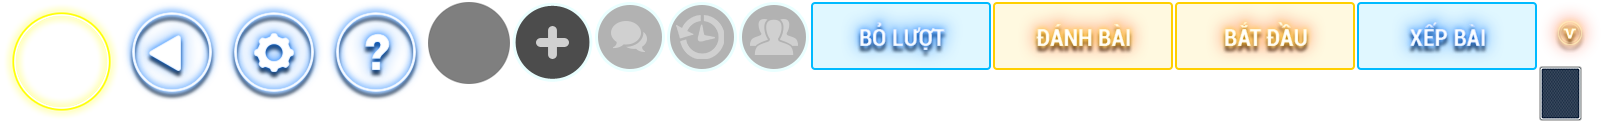
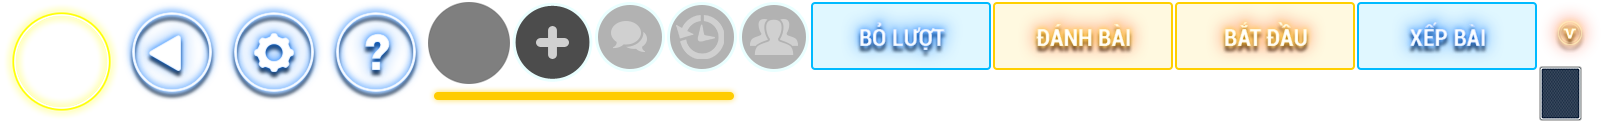
yes

Changed region(s): [[0.2495, 0.7073, 0.4679, 0.8537]]

diff --git a/res/Game/js/Home/HomeScene.js b/res/Game/js/Home/HomeScene.js
@@ -267,29 +267,20 @@ var HomeScene = IScene.extend({
     },
 
     callButtonHandler : function () {
-        // var dialog = new Dialog();
-        // dialog.initWithSize(cc.size(700,300));
-        // dialog.show();
+       // SystemPlugin.getInstance().showCallPhone(GameConfig.hotline);
 
-       // LoadingDialog.getInstance().show();
-        //MessageNode.getInstance().show("Test message node");
-
-        // var dialog = new RewardDialog();
-        // dialog.setItem("Apple iPhone 10S 128GB", 1000000);
-        // dialog.showWithAnimationScale();
-
-        // var dialog = new ResultDialog(2);
-        // dialog.show();
-
-        // var dialog = new UserDialog();
-        // dialog.setUsername("QQQQQQQQQQQQQQQQQQQQQQQQQQQQQQQQ");
-        // dialog.setGold(1234567);
-        // dialog.showWithAnimationScale();
-
-        // var dialog = new UserListDialog();
-        // dialog.show();
-
-        SystemPlugin.getInstance().showCallPhone(GameConfig.hotline);
+        // var request = cc.loader.getXMLHttpRequest();
+        // request.open("GET", "google.com");
+        // request.setRequestHeader( "Content-Type","text/plain;charset=UTF-8" );
+        // request.d
+        // request.onreadystatechange = function () {
+        //     if (request.readyState == 4 && ( request.status >= 200 && request.status <= 207 ) ) {
+        //         var httpStatus = request.statusText;
+        //         cc.log( httpStatus );
+        //         cc.log( request.responseText );
+        //     }
+        // };
+        // request.send();
     },
 
     newsMesasgeButtonHandler : function () {

diff --git a/res/Game/js/Game/TienLen.js b/res/Game/js/Game/TienLen.js
@@ -71,6 +71,14 @@ var TienLen = IGameScene.extend({
         playerMe.setPosition(150, 50.0);
         this.sceneLayer.addChild(playerMe,1);
 
+        var progressTimerMe = new cc.ProgressTimer(new cc.Sprite("#player-progress-3.png"));
+        progressTimerMe.setType(cc.ProgressTimer.TYPE_BAR);
+        progressTimerMe.setMidpoint(cc.p(0.0,0.5));
+        progressTimerMe.setBarChangeRate(cc.p(1.0,0.0));
+        progressTimerMe.setPercentage(50.0);
+        progressTimerMe.setPosition(cc.p(cc.winSize.width/2, 220.0));
+        this.sceneLayer.addChild(progressTimerMe,2);
+
         var player1 = new GamePlayer();
         player1.setPosition(cc.winSize.width - 120.0 / cc.winSize.screenScale, 360.0);
         this.sceneLayer.addChild(player1,1);
